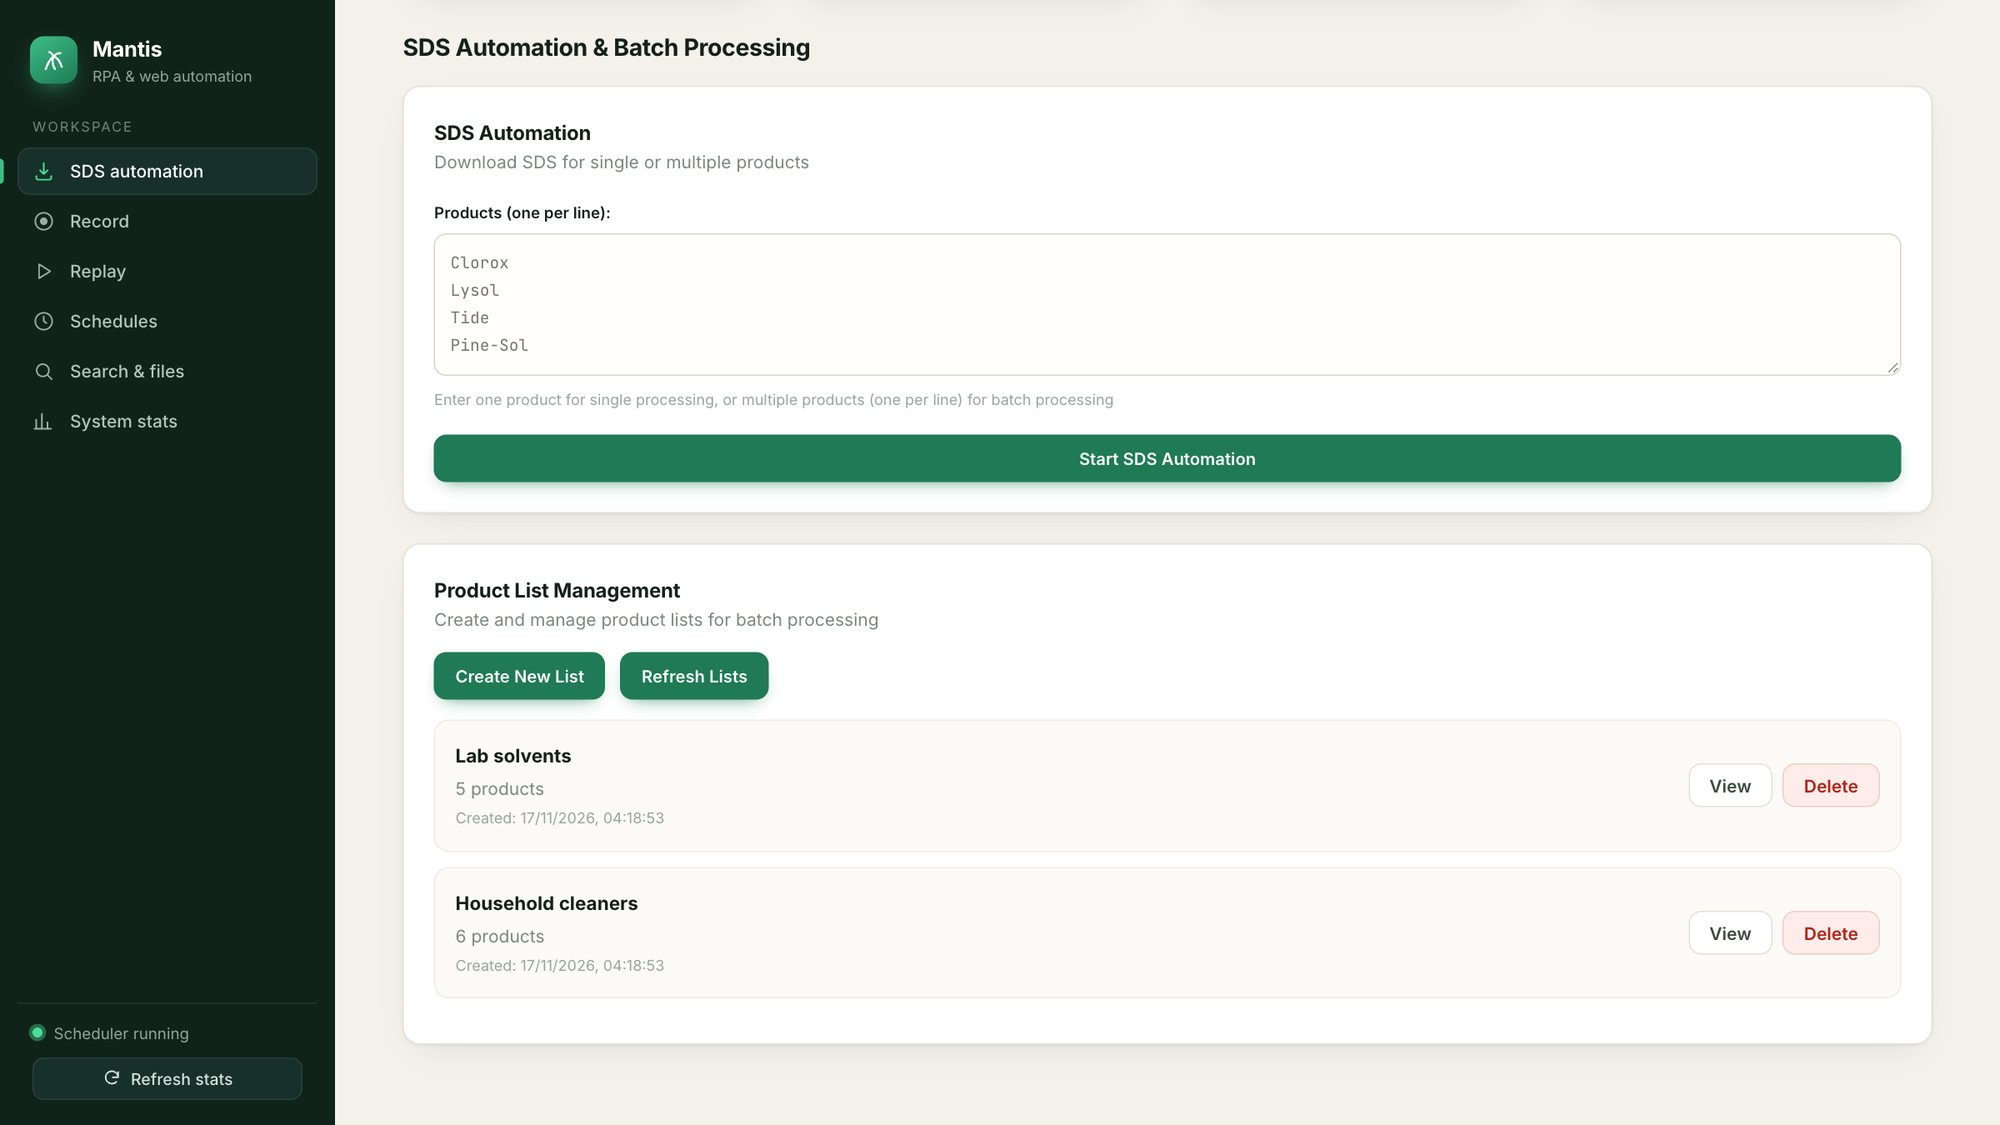
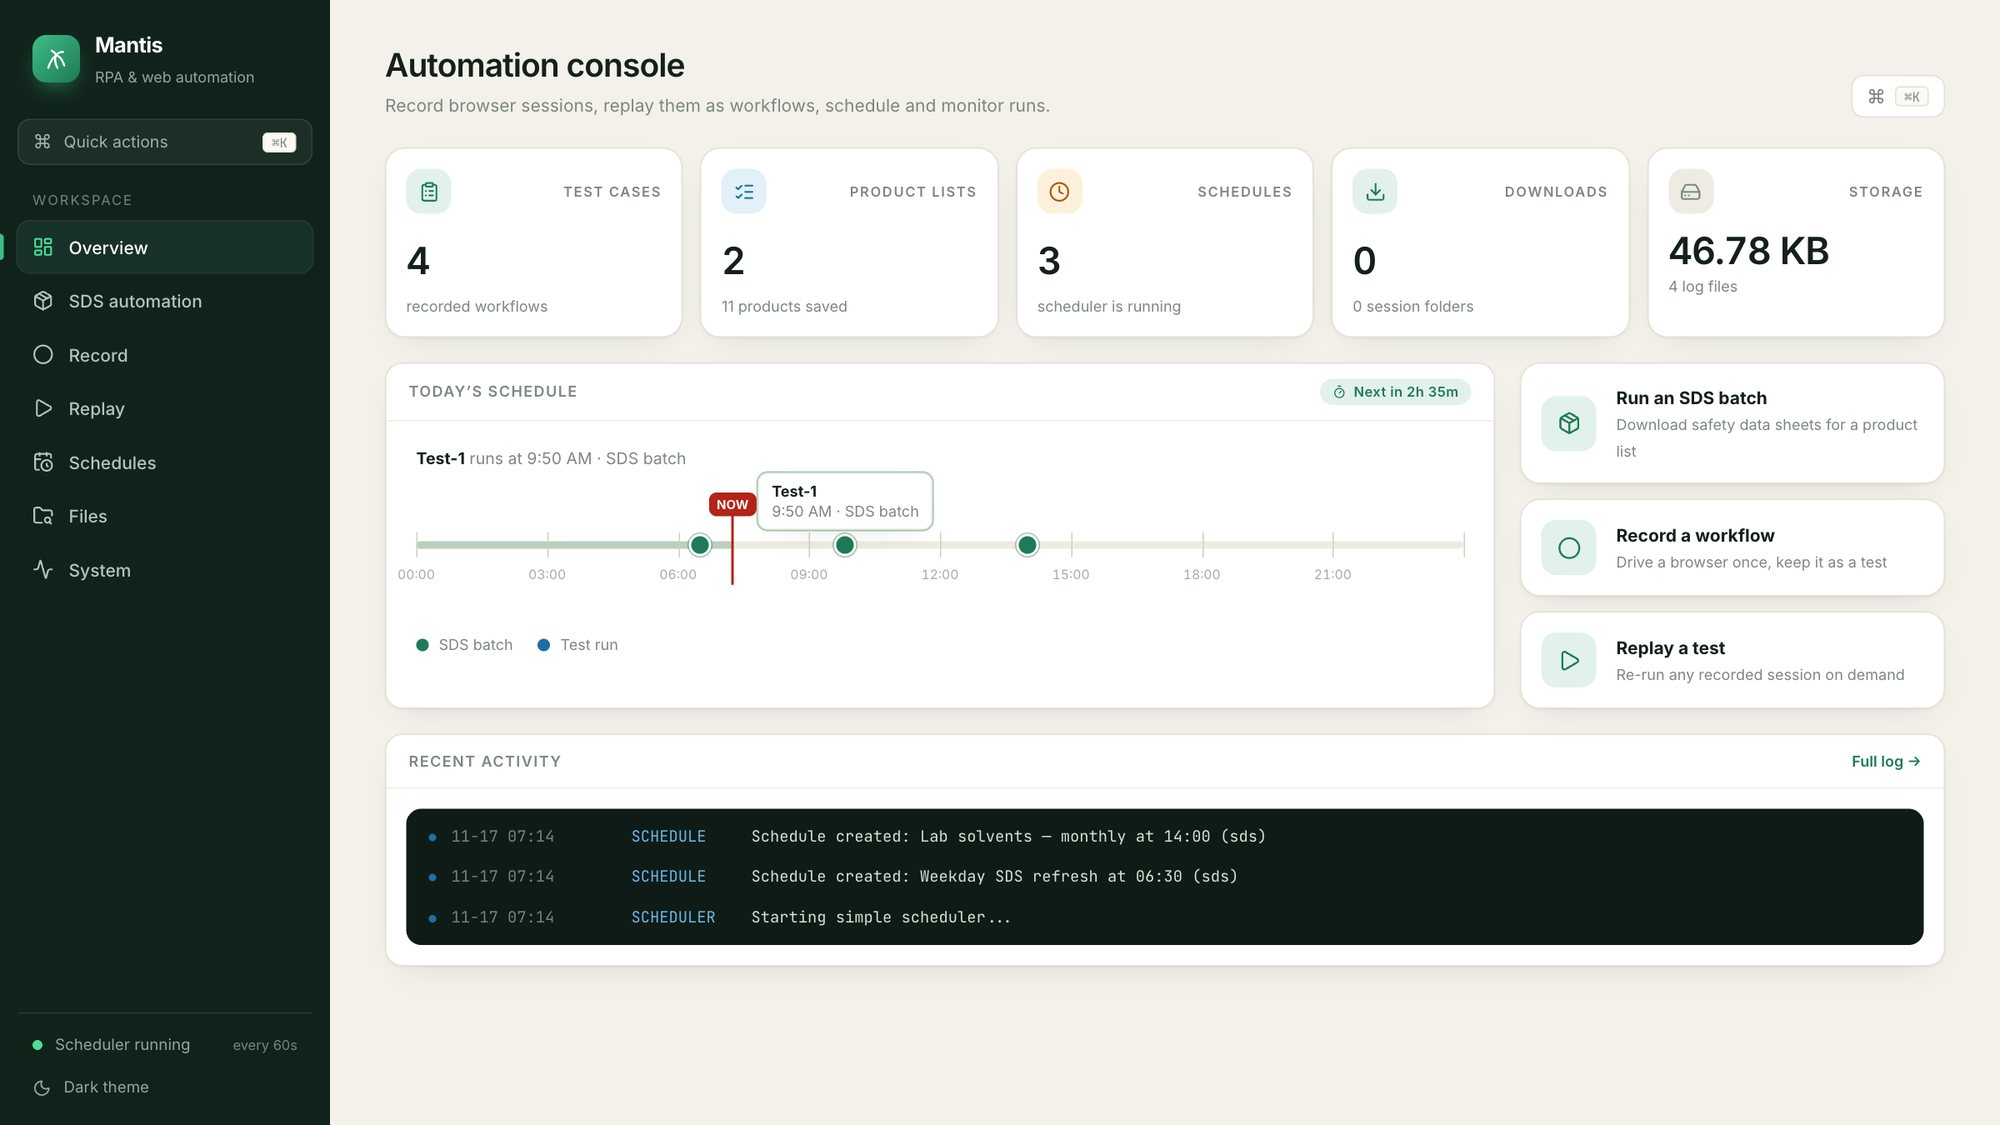
Mantis case study: rebuilt React console, new screenshots

diff --git a/js/data.js b/js/data.js
@@ -96,7 +96,7 @@ window.PROJECTS = [
     "name": "Mantis",
     "title": "Browser automation platform",
     "short": "Records a browser session once, then replays it as a parameterised workflow — scheduled, retried, logged and monitored from one dashboard.",
-    "tags": "Node.js · Express · Playwright · SQLite",
+    "tags": "Node.js · Express · Playwright · React",
     "blurb": "Turns browser actions into repeatable automation: record a session once, then replay it as a parameterised workflow with scheduling, retries and an audit trail.",
     "stack": [
       "NODE.JS",
@@ -104,8 +104,11 @@ window.PROJECTS = [
       "PLAYWRIGHT",
       "SOCKET.IO",
       "SQLITE + SEQUELIZE",
-      "CODEGEN",
-      "PDF EXTRACTION"
+      "REACT 19",
+      "TYPESCRIPT",
+      "VITE",
+      "TAILWIND",
+      "BASE UI"
     ],
     "links": [],
     "sections": [
@@ -125,35 +128,37 @@ window.PROJECTS = [
         "h": "WHAT I BUILT",
         "body": [
           "A Playwright codegen wrapper turns a recorded session into a runnable test case, parameterised so one recording serves many inputs, with fallback and retry behaviour for the selectors that inevitably drift. A PDF extraction and upload step handles the documents these workflows tend to end at.",
-          "An Express server fronts it with a dashboard, Socket.IO streams run progress live, and SQLite through Sequelize keeps the run history, audit log and analytics — so the platform can be operated rather than just executed."
+          "An Express server fronts it with a dashboard, Socket.IO streams run progress live, and SQLite through Sequelize keeps the run history, audit log and analytics — so the platform can be operated rather than just executed.",
+          "The console itself is a React and TypeScript app (Tailwind, Base UI, Motion) built into the Express static folder, so the server runs it with no Node tooling in production. It plots schedules on a live 24-hour timeline, hides routine scheduler noise from the activity feed, and has a command palette and dark theme. Rebuilding it also exposed two request-contract bugs in the old page (the run-test call sent the wrong field names, and the test list read the wrong response key); both are fixed."
         ]
       }
     ],
     "now": [
       "SESSION RECORD / REPLAY",
       "GENERATED TEST CASES",
-      "PARAMETERISED INPUTS",
-      "LIVE RUN STREAMING",
-      "RETRIES + FALLBACKS",
+      "SAVED PRODUCT LISTS",
+      "SCHEDULES ON A LIVE DAY TIMELINE",
+      "NEXT-RUN COUNTDOWN",
       "PDF EXTRACTION + UPLOAD",
-      "AUDIT LOGS",
-      "RUN ANALYTICS"
+      "FILTERABLE ACTIVITY LOG",
+      "LIVE FILE SEARCH",
+      "COMMAND PALETTE"
     ],
     "gallery": [
       {
         "src": "assets/mantis-console.jpg",
-        "alt": "Mantis console: sidebar navigation, summary cards, the SDS automation form and saved product lists",
-        "cap": "The Mantis console — batch SDS automation with saved product lists"
+        "alt": "Mantis console overview: summary tiles, a 24-hour schedule timeline with a live now marker and next-run countdown, quick actions and recent activity",
+        "cap": "Overview: a live day timeline with a next-run countdown, and the activity feed"
+      },
+      {
+        "src": "assets/mantis-sds.jpg",
+        "alt": "Mantis SDS automation page: products typed into the run form shown as removable chips beside saved product lists",
+        "cap": "SDS automation: paste products, or run a saved list"
       },
       {
         "src": "assets/mantis-schedules.jpg",
-        "alt": "Mantis console: active schedules with their product lists and times",
-        "cap": "Schedules: recurring runs against a saved product list"
-      },
-      {
-        "src": "assets/mantis-stats.jpg",
-        "alt": "Mantis console: system statistics for test cases, downloads, logs and disk usage",
-        "cap": "System statistics for the platform"
+        "alt": "Mantis schedules page: the day timeline above a new-schedule form and the active schedules sorted by next run",
+        "cap": "Schedules: sorted by next run, plotted on the day timeline"
       }
     ]
   },

diff --git a/README.md b/README.md
@@ -31,4 +31,4 @@ then open <http://localhost:8000>.
 - Respects `prefers-reduced-motion`: no smooth scroll, pinning or loader.
 - The loader plays once per browser session; navigating between pages uses a curtain transition.
 - Hidden: the Konami code shows the visit counter.
-- Screenshots: DigiTwin, Mantis, the AI PII Detector and SignalOps were captured from the running projects in their light themes (the PII scan uses fictional sample data; SignalOps runs the real engine on a clearly-labelled synthetic dataset because the hackathon pack isn't public). Atlas is dark-only, so its captures are dark. WinSpark is Windows-only, so its capture comes from the project's own docs.
+- Screenshots: DigiTwin, Mantis, the AI PII Detector and SignalOps were captured from the running projects in their light themes (the PII scan uses fictional sample data; SignalOps runs the real engine on a clearly-labelled synthetic dataset because the hackathon pack isn't public). Mantis and the PII Detector screenshots use their rebuilt React UIs. Atlas is dark-only, so its captures are dark. WinSpark is Windows-only, so its capture comes from the project's own docs.
